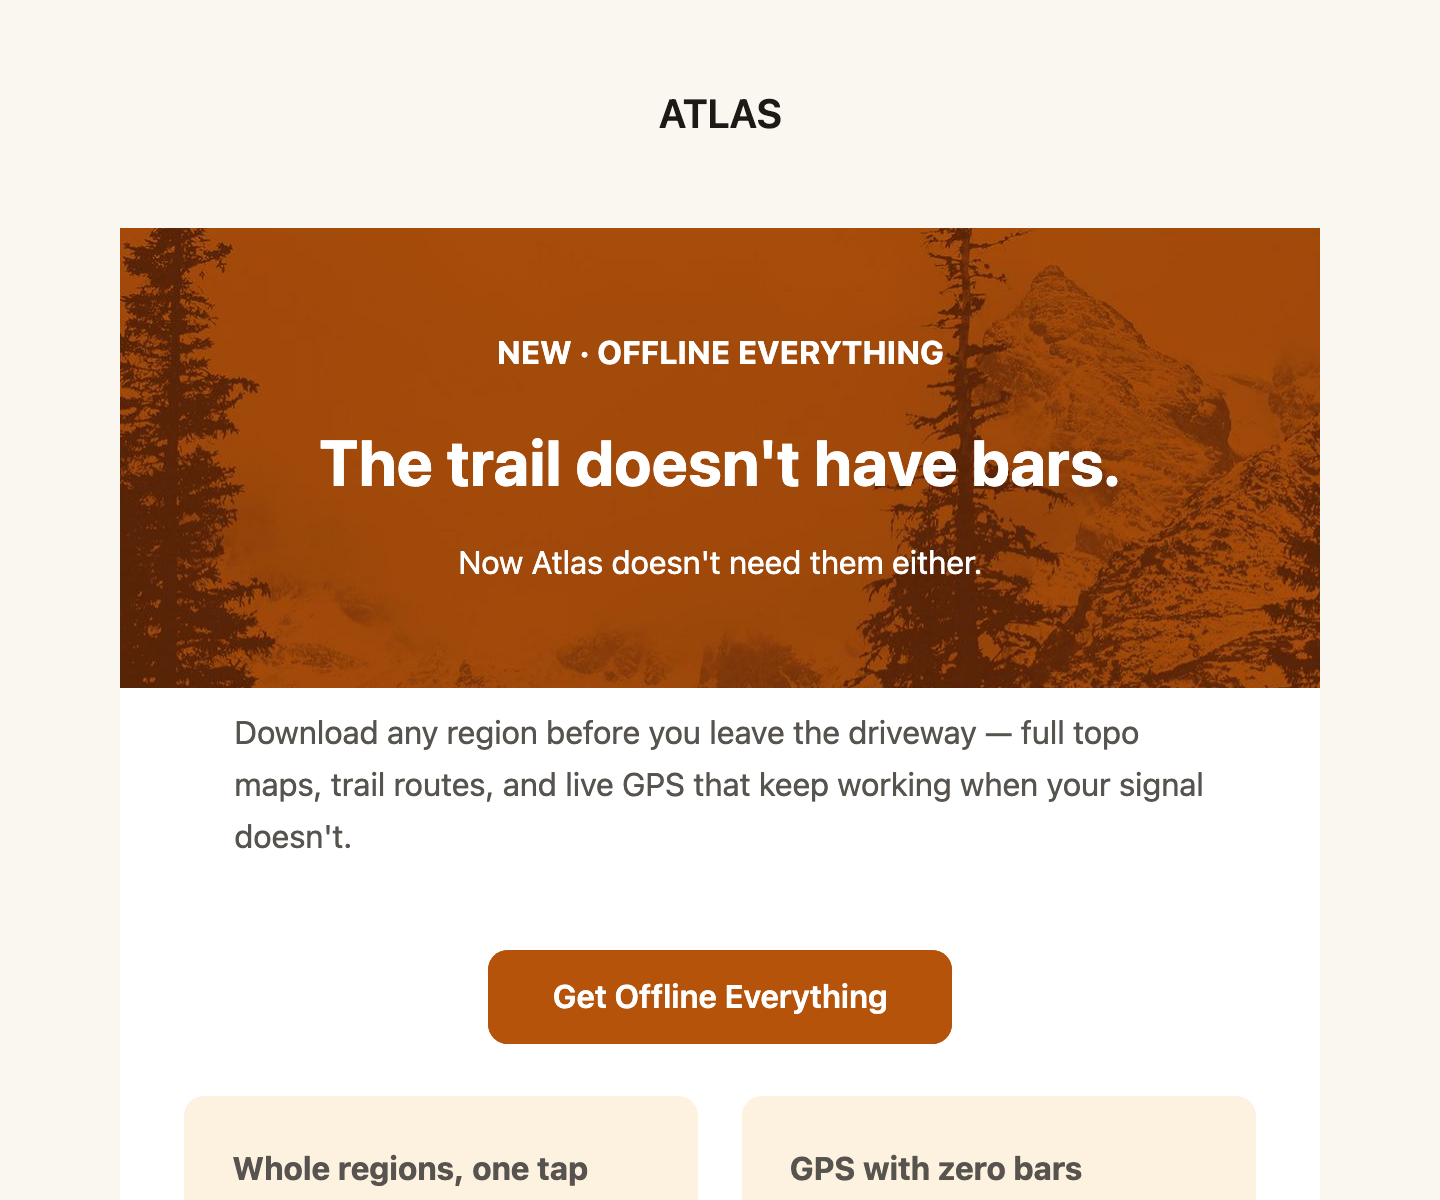
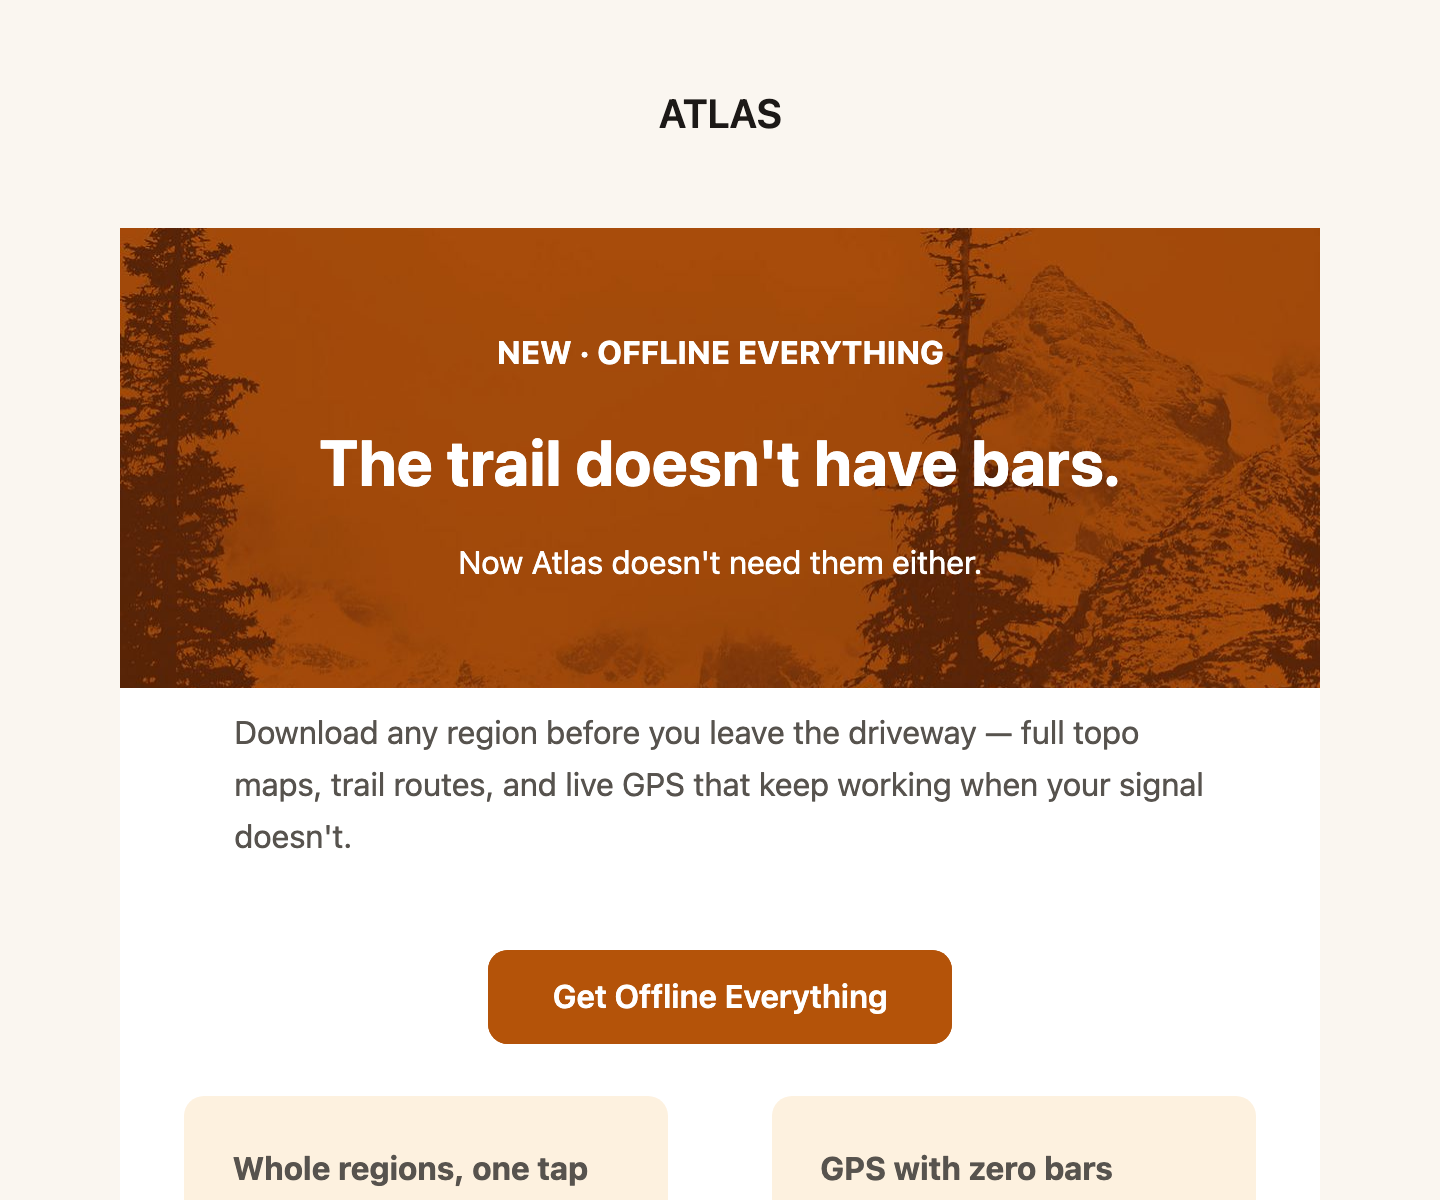
fix columns wrapping when explicit widths leave no room for their gaps

Changed region(s): [[0.4375, 0.8942, 0.7812, 1.0]]

diff --git a/packages/emailmd/tests/columns.test.ts b/packages/emailmd/tests/columns.test.ts
@@ -150,6 +150,38 @@ describe('columns directive', () => {
     expect(html).toContain('emd-gap');
   });
 
+  it('scales explicit widths that already fill the row so the gaps fit', async () => {
+    // 48/4/48 reads as a full row, but two spacer columns join it — without
+    // scaling the row runs to ~106% and the cards wrap onto their own lines.
+    const { html, warnings } = await render(
+      ':::: columns\n::: column 48 bg=#eee\nA\n:::\n::: column 4\n:::\n::: column 48 bg=#eee\nB\n:::\n::::',
+    );
+    const widths = columnWidths(html);
+    expect(widths).toHaveLength(5); // 3 authored + 2 spacers
+    expect(widths.reduce((a, b) => a + b, 0)).toBeLessThanOrEqual(100);
+    // The authored proportions survive: the two cards still match each other.
+    expect(widths[0]).toBe(widths[4]);
+    expect(widths[0]).toBeGreaterThan(widths[2]);
+    // The gaps pushing the row over is the renderer's doing, not the author's.
+    expect(warnings).toBeUndefined();
+  });
+
+  it('leaves explicit widths alone when the gaps already fit', async () => {
+    const { html } = await render(
+      ':::: columns\n::: column 48 bg=#eee\nA\n:::\n::: column 48 bg=#eee\nB\n:::\n::::',
+    );
+    expect(columnWidths(html)).toEqual([48, 2.98, 48]);
+  });
+
+  it('keeps three explicitly sized cards on one row', async () => {
+    const { html } = await render(
+      ':::: columns\n::: column 32 bg=#eee\nA\n:::\n::: column 2\n:::\n::: column 32 bg=#eee\nB\n:::\n::: column 2\n:::\n::: column 32 bg=#eee\nC\n:::\n::::',
+    );
+    const widths = columnWidths(html);
+    expect(widths).toHaveLength(9); // 5 authored + 4 spacers
+    expect(widths.reduce((a, b) => a + b, 0)).toBeLessThanOrEqual(100);
+  });
+
   it('warns when explicit widths plus gaps exceed 100%', async () => {
     const { warnings } = await render(
       ':::: columns gap=40\n::: column width=99% bg=#f3e7d8\nA\n:::\n::: column\nB\n:::\n::::',

diff --git a/packages/emailmd/src/mjml.ts b/packages/emailmd/src/mjml.ts
@@ -2043,13 +2043,25 @@ function renderColumnsSegment(segment: Segment, theme: Theme, ctx?: SegmentConte
     const explicitTotal = widths.reduce((sum, w) =>
       w ? sum + (w.endsWith('px') ? (parseFloat(w) / innerPx) * 100 : parseFloat(w)) : sum, 0);
     const flexible = widths.filter((w) => !w).length;
-    if (flexible > 0) {
-      fillWidthPct = pct((100 - spacerTotal - explicitTotal) / flexible);
-      if (fillWidthPct <= 0) {
-        warn(ctx, 'Column widths plus gaps exceed 100% — layout may overflow.');
-        fillWidthPct = 1;
-      }
+    // Widths are written as if they fill the row on their own — 48/4/48 reads
+    // as a full row — but the spacer columns are extra, so a row that already
+    // adds up overflows the moment they join it and the cards wrap onto their
+    // own lines. Scale the widths into what the gaps leave instead, keeping
+    // the proportions as written. A flexible column keeps a 1% floor.
+    const room = Math.max(1, 100 - spacerTotal - flexible);
+    let explicitPct = explicitTotal;
+    if (explicitTotal > room) {
+      // Only worth reporting when the author's own numbers left no room: the
+      // gaps pushing a 100% row over is the renderer's doing, not a mistake.
+      if (flexible > 0) warn(ctx, 'Column widths plus gaps exceed 100% — the remaining columns were squeezed to fit.');
+      const scale = room / explicitTotal;
+      widths.forEach((w, i) => {
+        const parts = w ? /^([\d.]+)(.*)$/.exec(w) : null;
+        if (parts) widths[i] = `${pct(parseFloat(parts[1]) * scale)}${parts[2] || '%'}`;
+      });
+      explicitPct = room;
     }
+    if (flexible > 0) fillWidthPct = pct((100 - spacerTotal - explicitPct) / flexible);
   }
 
   const parts: string[] = [];

diff --git a/apps/web/lib/screenshot-manifest.ts b/apps/web/lib/screenshot-manifest.ts
@@ -13,5 +13,5 @@ export const screenshotVersions: Record<string, string> = {
   "release-notes": "22dff23c",
   "event-invite": "c2111631",
   "abandoned-cart": "d69d7489",
-  "product-announcement": "861c7092",
+  "product-announcement": "5ddda70c",
 };

diff --git a/packages/emailmd/CHANGELOG.md b/packages/emailmd/CHANGELOG.md
@@ -16,6 +16,9 @@ Data visualization ahead of 1.0. Every block below is drawn from table cells and
 - **`::: steps` and `::: timeline` directives** — an ordered walk drawn as markers on a connecting rail, one list item per step, written `Title: detail` or as two paragraphs where the detail runs longer. Tick a step off and the block stops being instructions and becomes a tracker: ticked steps are behind the reader, with the rail lit over the ground already covered, and unticked ones are ahead of them. Which step the reader is *on* is never inferred from the ticks — an unticked box says the step has not happened, and promoting one of them would render something the author did not write. `{state=…}` carries the two positions a box cannot hold: `current`, the step being worked on right now, and `failed`, drawn as a cross in the danger color (`done` and `todo` are also accepted, being `[x]` and `[ ]`, so a block can use one vocabulary throughout). A stated step needs no checkbox. The rail is a table cell carrying a background rather than a border, so it takes the height of whatever text sits beside it: a step whose detail wraps on a phone gets a longer rail, not a broken one. `::: timeline` is the same walk with dots instead of numbers. Params: `marker` (`number`, `dot`, `none`), `color`, `rail` (`none` drops the connector), `size`, `gap`, `start`; numbering otherwise follows the list's own. The plain-text part becomes an indented outline that keeps the markers (`[✓]`, `[→]`, `[ ]`, `[✕]`) so the state still reads down the left edge.
 - **`::: rating` directive** — a score drawn on a fixed scale, written `Label: value` as one headline rating or as a list for a breakdown by criterion. The glyphs are text characters, one to a table cell so the spacing survives Outlook dropping `letter-spacing`, and lit glyphs default to the theme's `warning_color` — the amber both palettes share — so a star row needs nothing to flip in dark mode. Scores round to the nearest half, and a half is drawn as a whole glyph faded into the page rather than a hollow or differently colored one: a glyph cannot be cut down the middle, and the clipping that would take is not honoured widely enough to risk drawing the row a glyph too wide. `precision=full` rounds to whole glyphs while the readout still reports the exact score, and a score outside the scale is clamped with a warning, its readout rewritten to the number actually drawn. Params: `max` (1–10, default 5), `icon` (`star`, `heart`, `circle`, `square`), `color`, `track`, `size`, `precision`, `align`, `values=false`. The plain-text part draws the same characters and spells the scale out (`★★★★☆  4.5 / 5`), since a half has no character to stand in for it.
 
+### Fixed
+- **Columns with explicit widths no longer wrap when their gaps join the row.** A block whose widths already added up — `48` / `4` / `48`, say — overflowed the moment a `bg` on one of the cards turned the gaps into real spacer columns, and the row broke apart into a diagonal cascade instead of sitting side by side. The widths are now scaled into what the gaps leave, so the proportions as written are kept and the row still fits; the existing overflow warning is left for the case it was written for, where the widths themselves crowd out a flexible column. Present since 0.7.1, when card gaps became spacer columns.
+
 ## [0.10.0] — 2026-07-25
 
 ### Added
